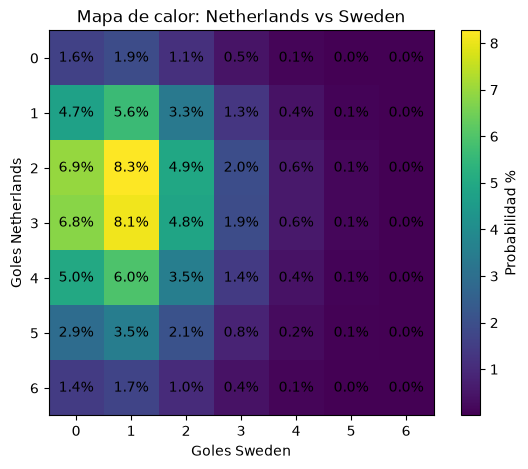
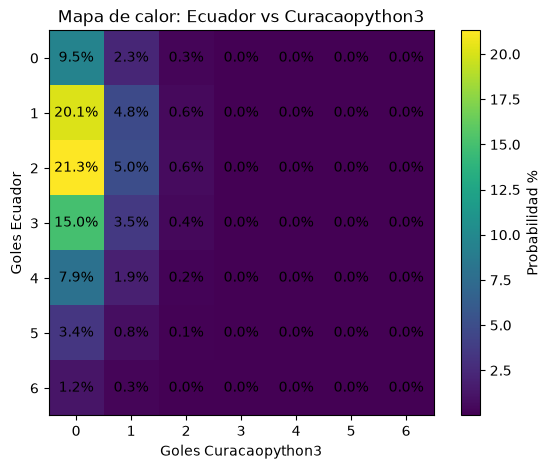
Corregir predicciones con argumentos

diff --git a/fit_dixon_coles.py b/fit_dixon_coles.py
@@ -116,8 +116,8 @@ if score_probs is None:
     from scipy.stats import poisson
     import numpy as _np
 
-    lambda_h = pred.home_goal_expectation
-    lambda_a = pred.away_goal_expectation
+    lambda_h = pred["exp_goals_home"]
+    lambda_a = pred["exp_goals_away"]
     if lambda_h is None or lambda_a is None:
         raise ValueError("No expected goals available to compute score probabilities")
 